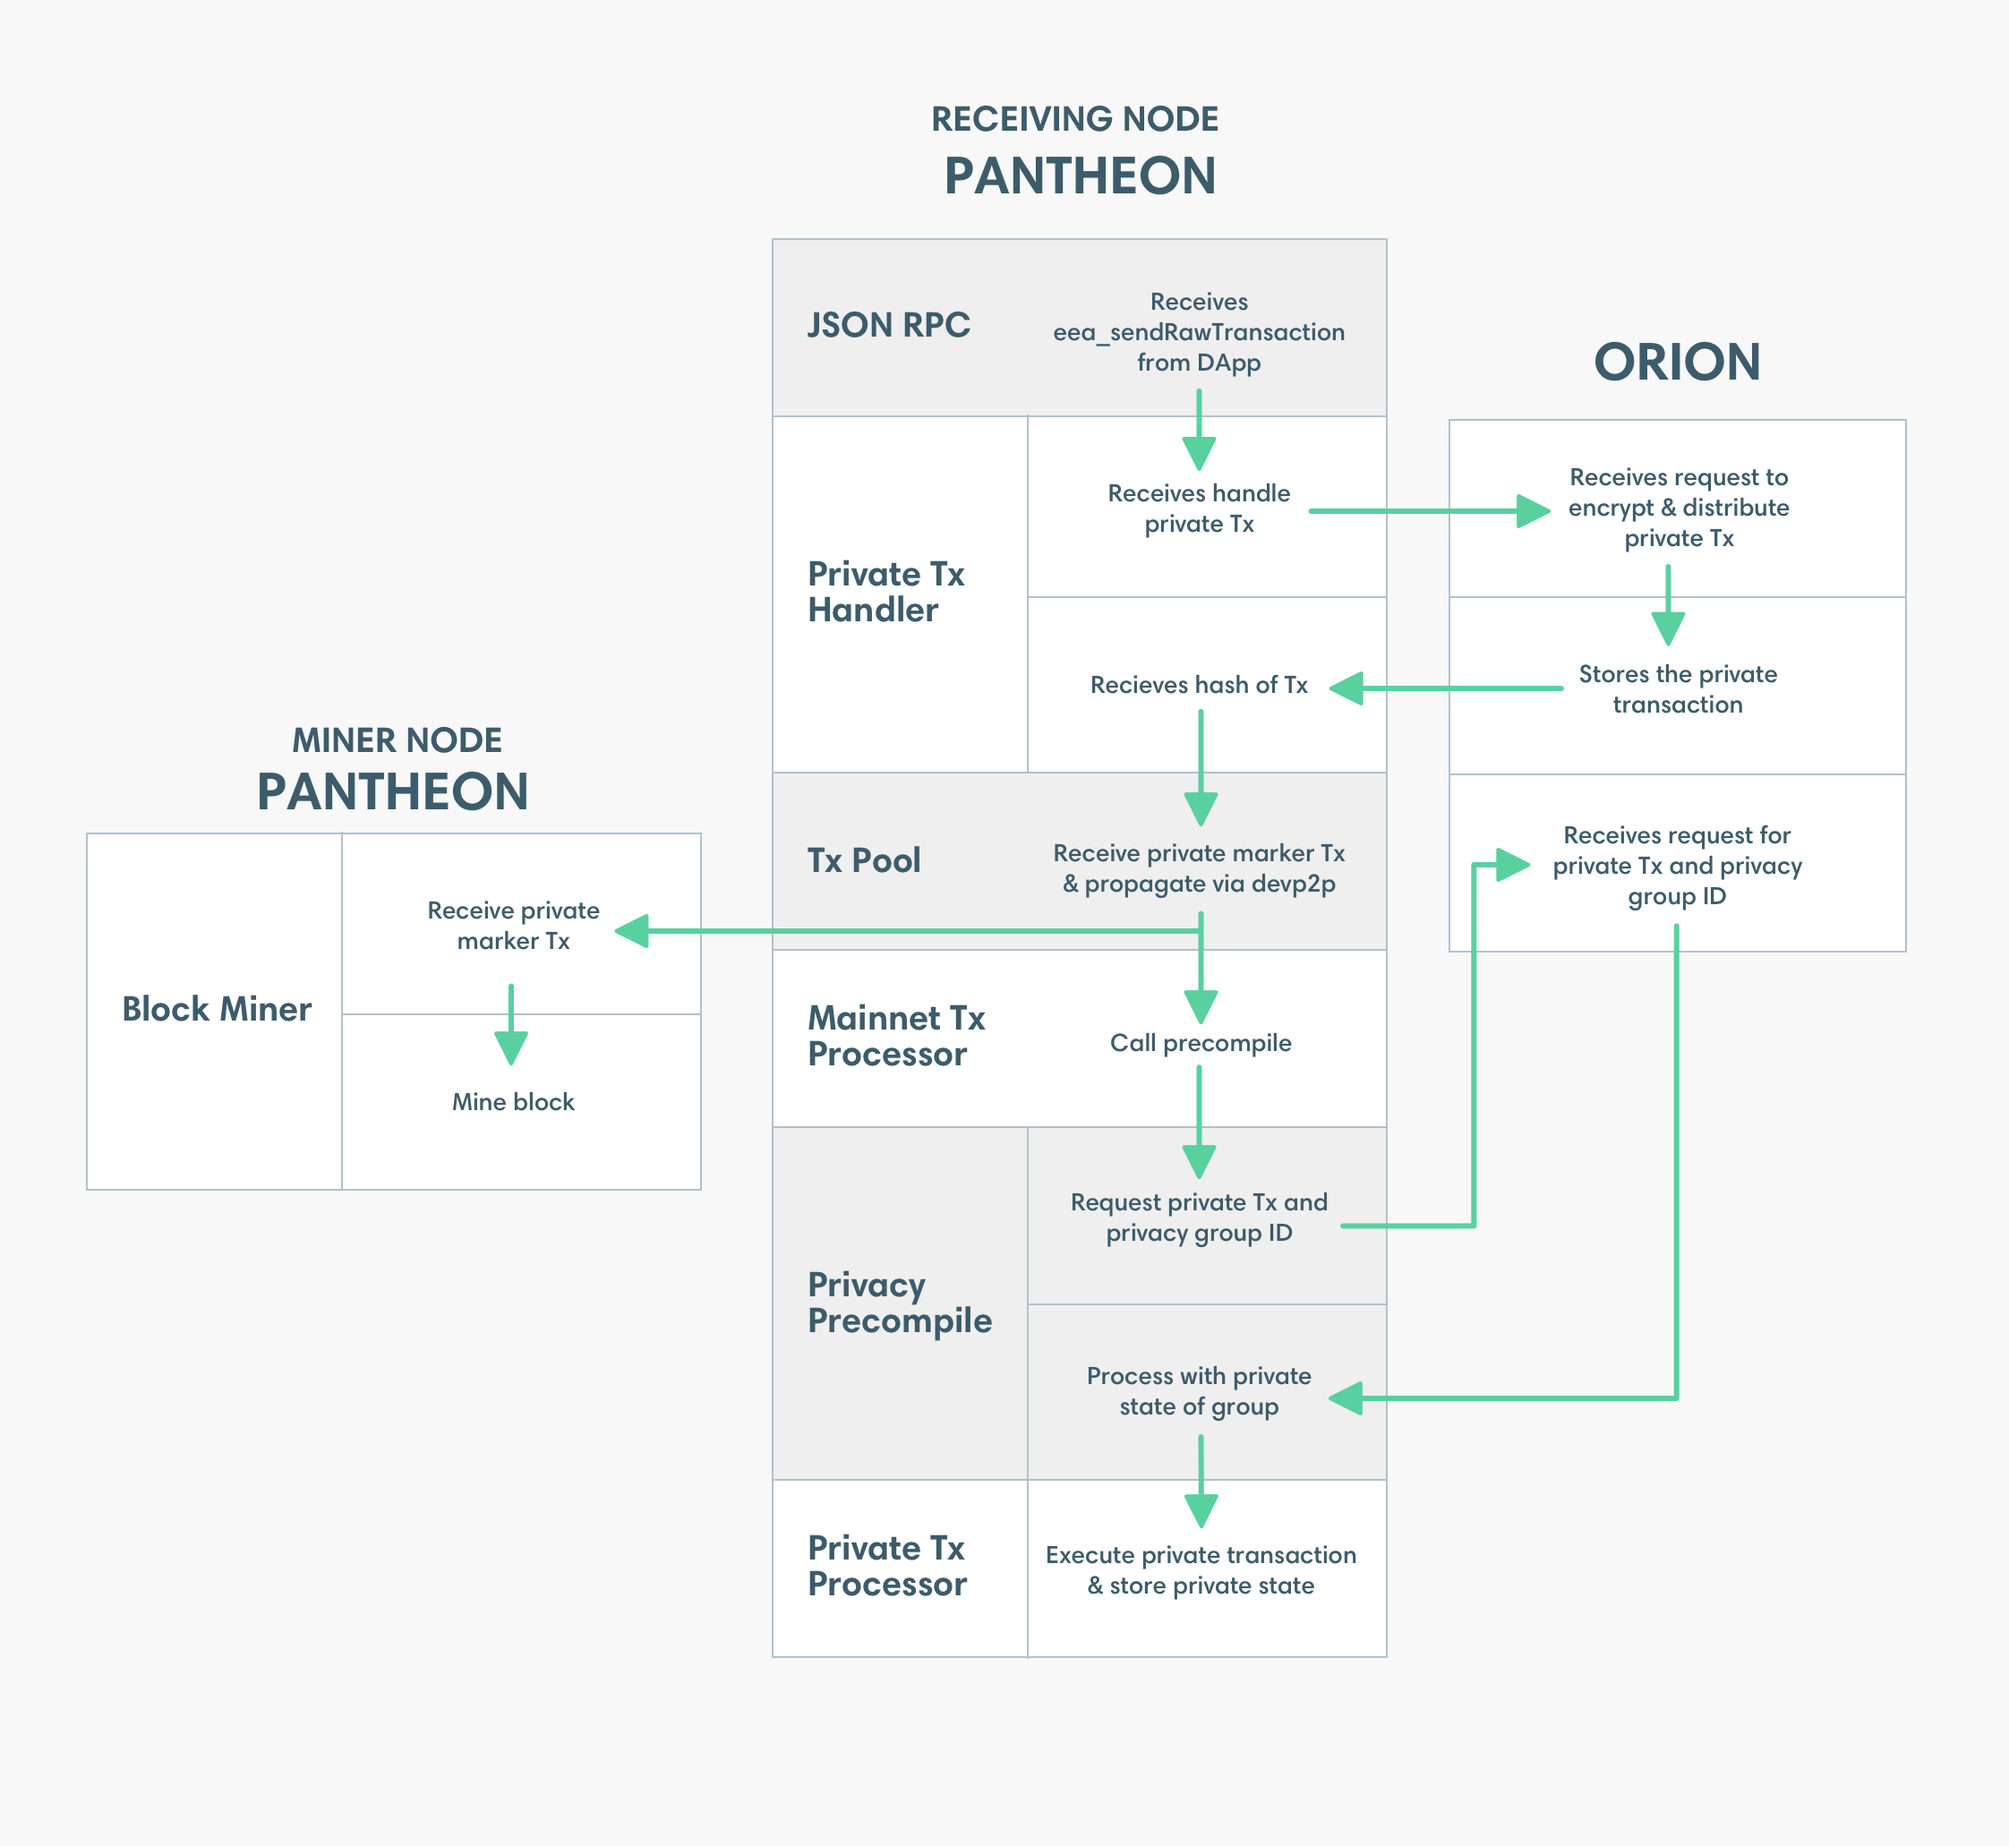
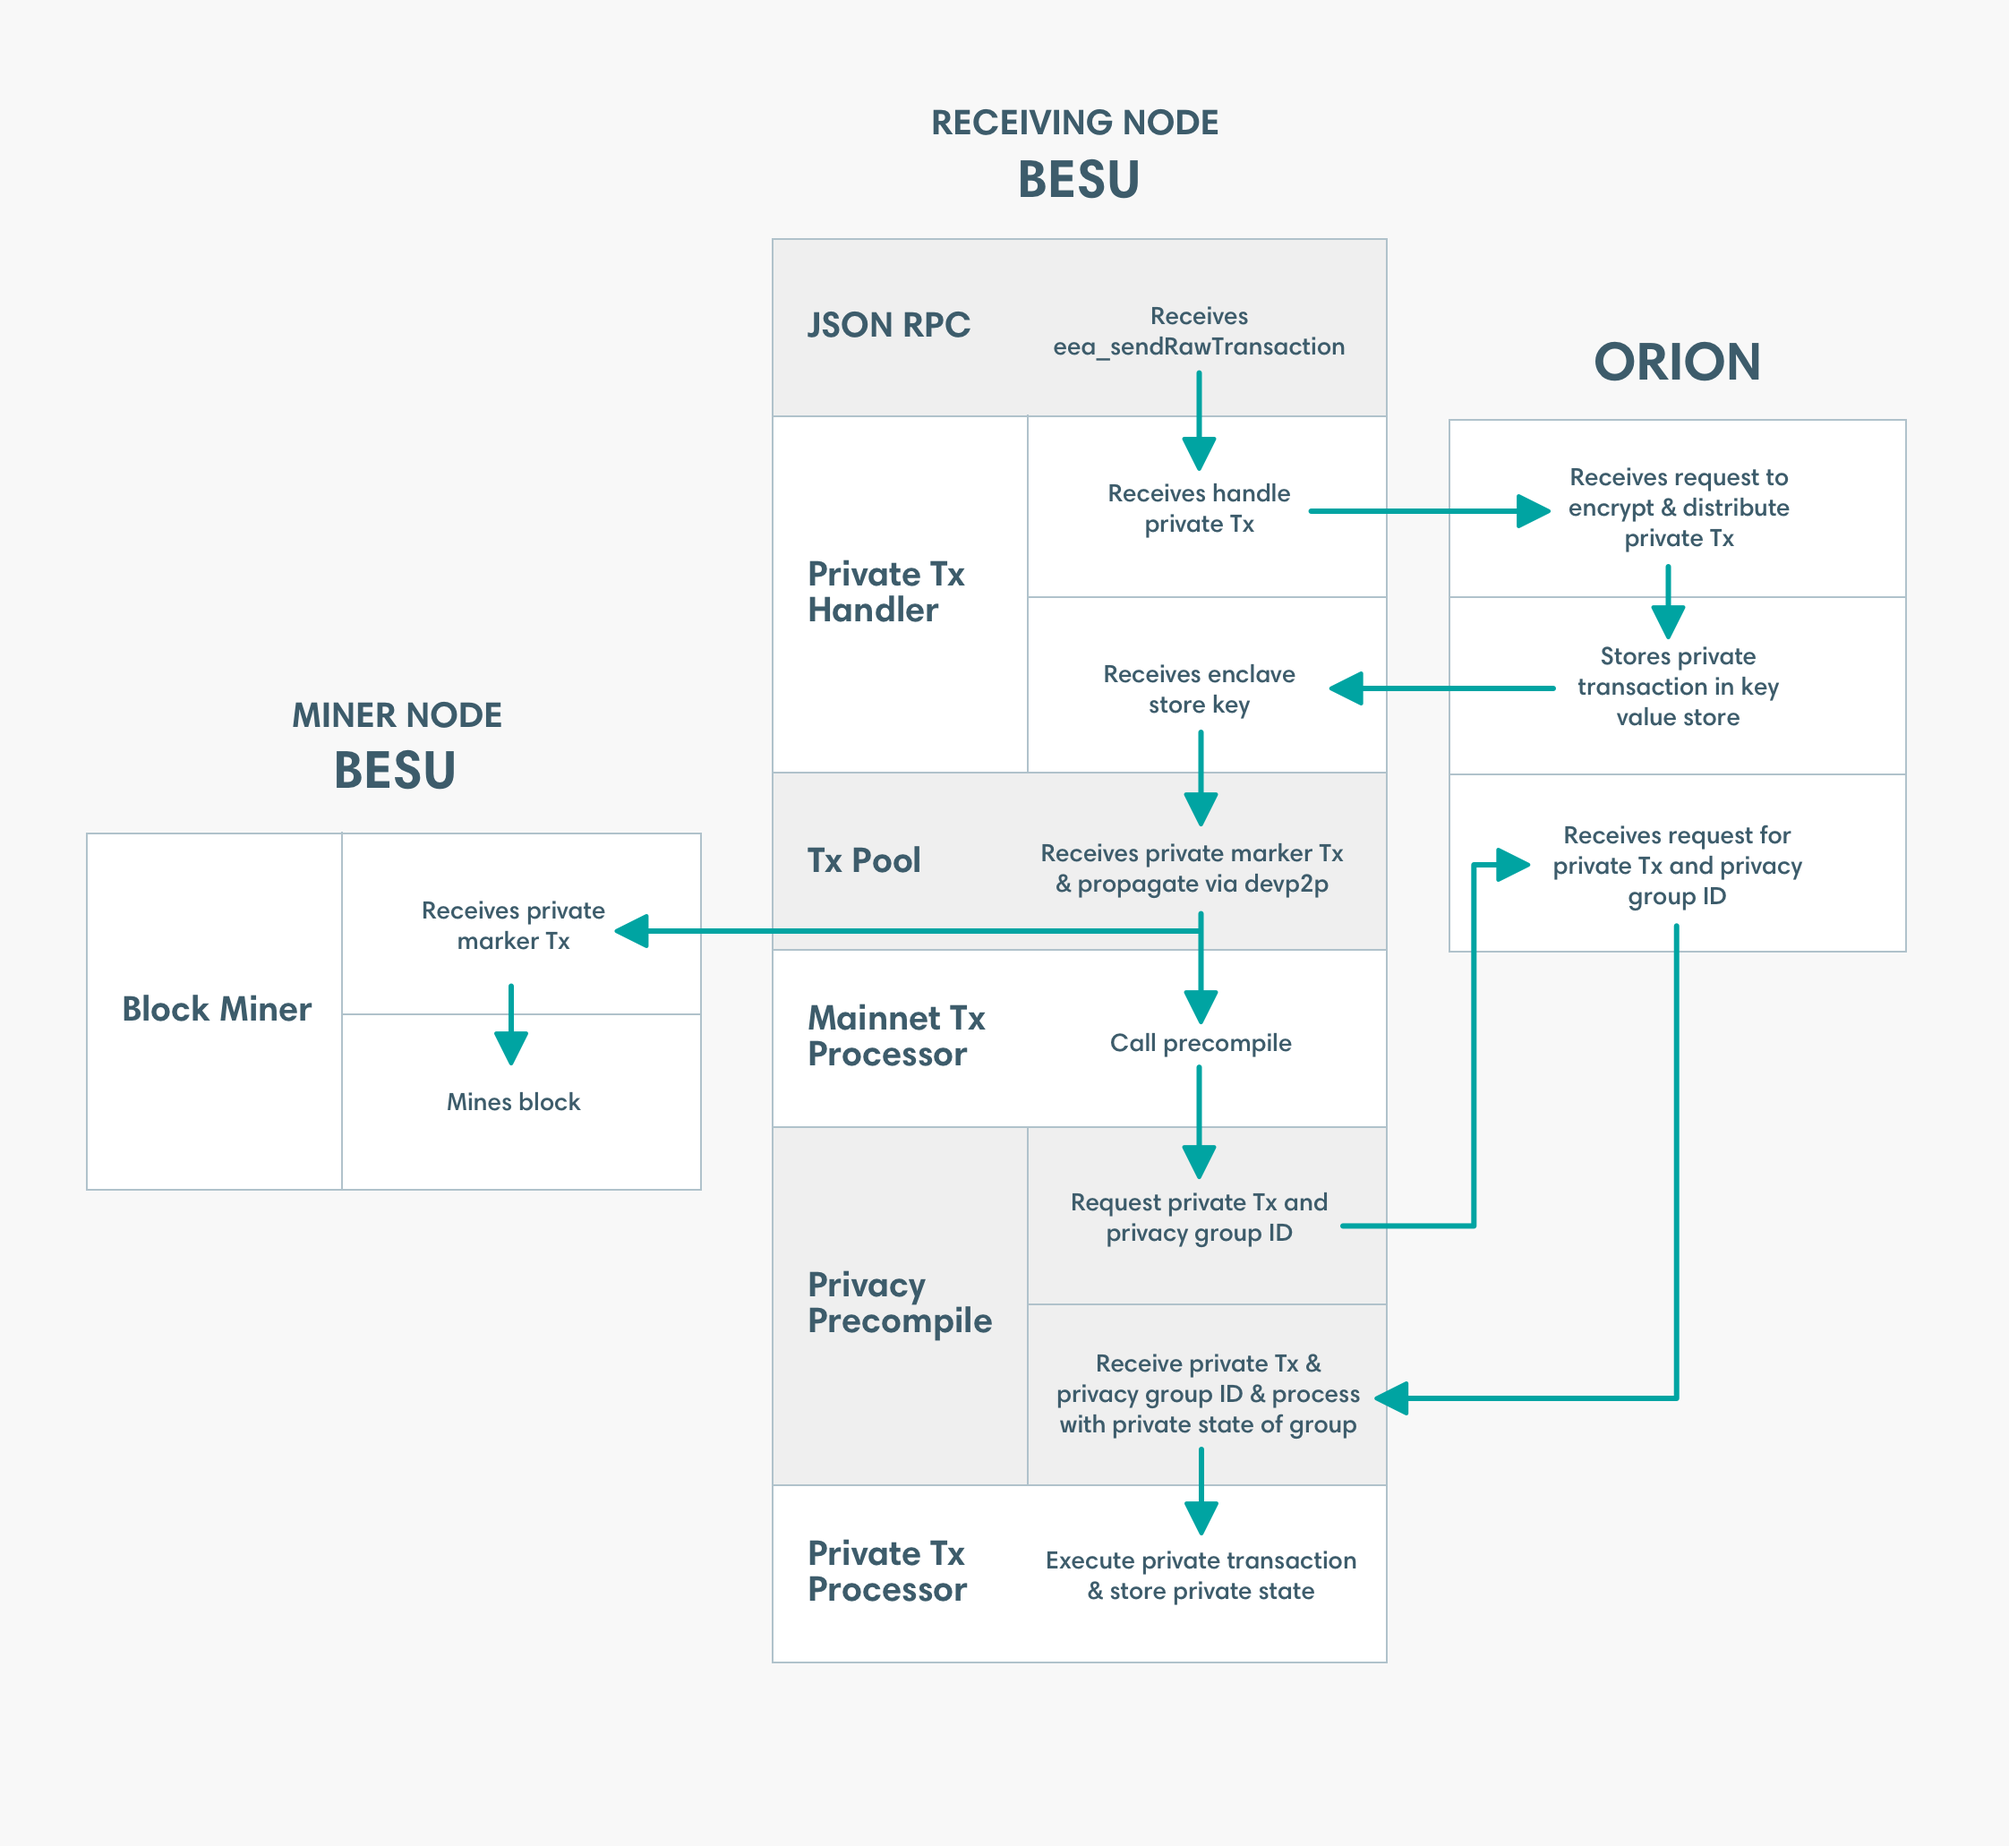
Updated privacy marker tx content

diff --git a/docs/Concepts/Privacy/Private-Transaction-Processing.md b/docs/Concepts/Privacy/Private-Transaction-Processing.md
@@ -8,9 +8,11 @@ Processing private transactions involves the following:
 - **Precompiled Contract**: Smart contract compiled from the source language to EVM bytecode and stored by an 
 Ethereum node for later execution.
 
-- **Privacy Marker Transaction**: Public Ethereum transaction with a payload of the transaction hash of the 
-private transaction. The `to` attribute of the Privacy Marker Transaction is the address of the privacy precompile contract. 
-The Privacy Marker Transaction is [signed with a random key or the key specified on the command line](../../HowTo/Use-Privacy/Sign-Privacy-Marker-Transactions.md).
+- **Privacy Marker Transaction**: Public Ethereum transaction with a payload of the enclave key. The enclave key 
+is a pointer to the private transaction in Orion. The `to` attribute of the Privacy Marker Transaction is the address 
+of the privacy precompile contract. 
+
+    The Privacy Marker Transaction is [signed with a random key or the key specified on the command line](../../HowTo/Use-Privacy/Sign-Privacy-Marker-Transactions.md).
 
 Private transactions are processed as illustrated and described below.  
 
